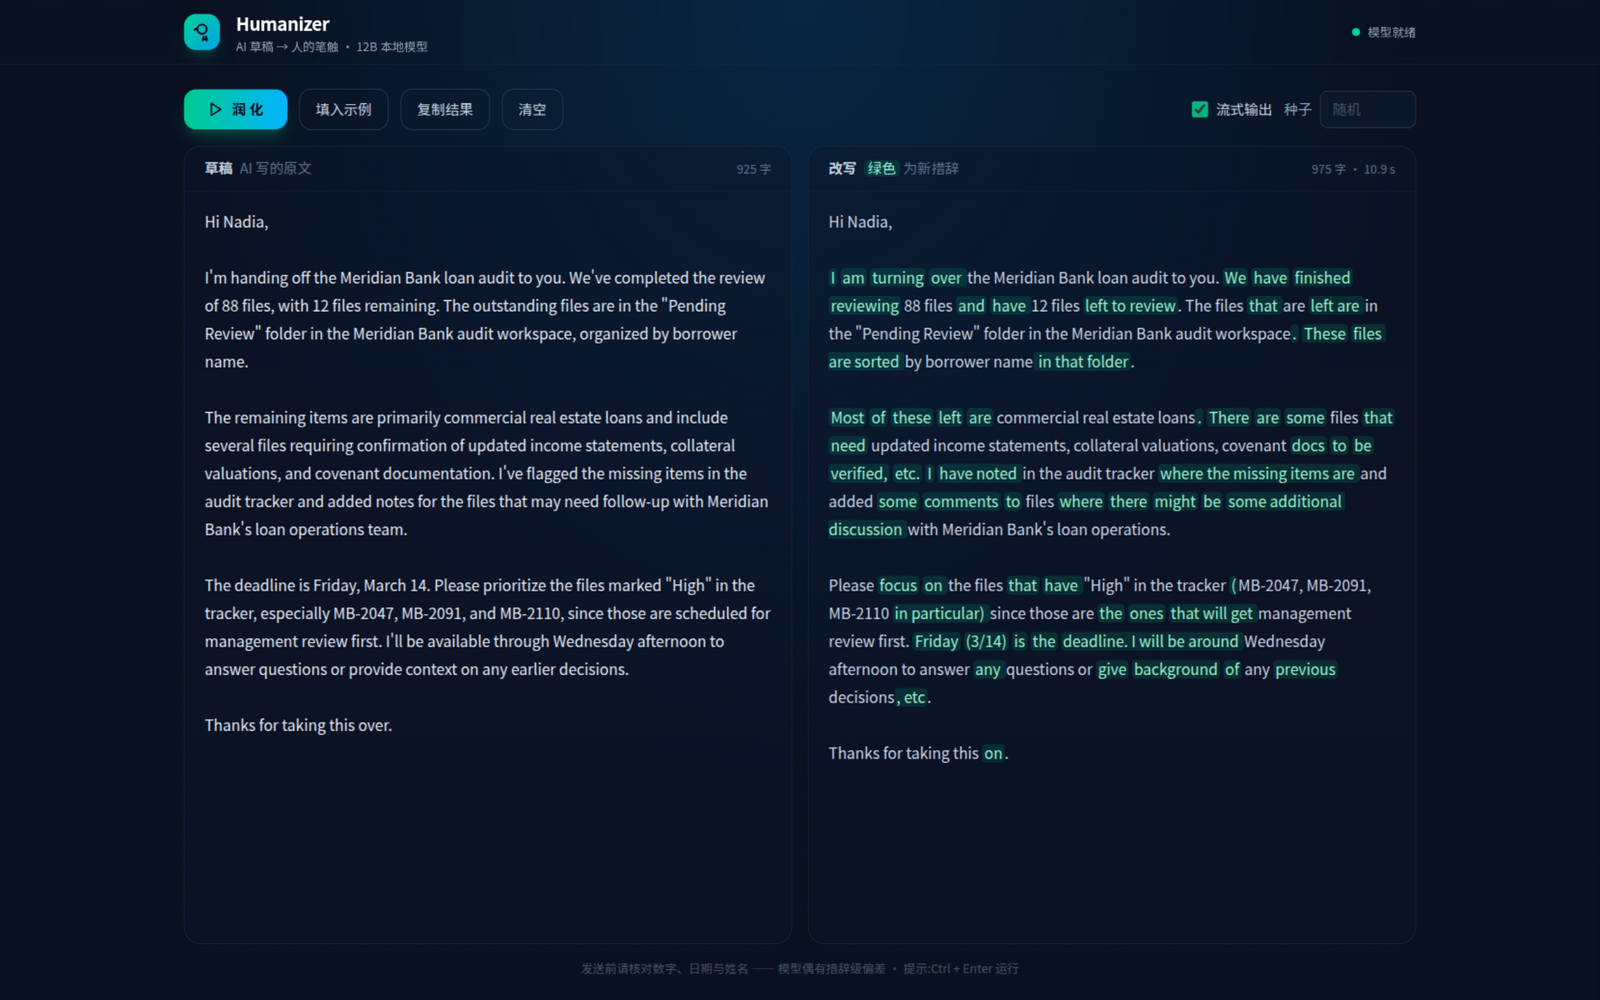
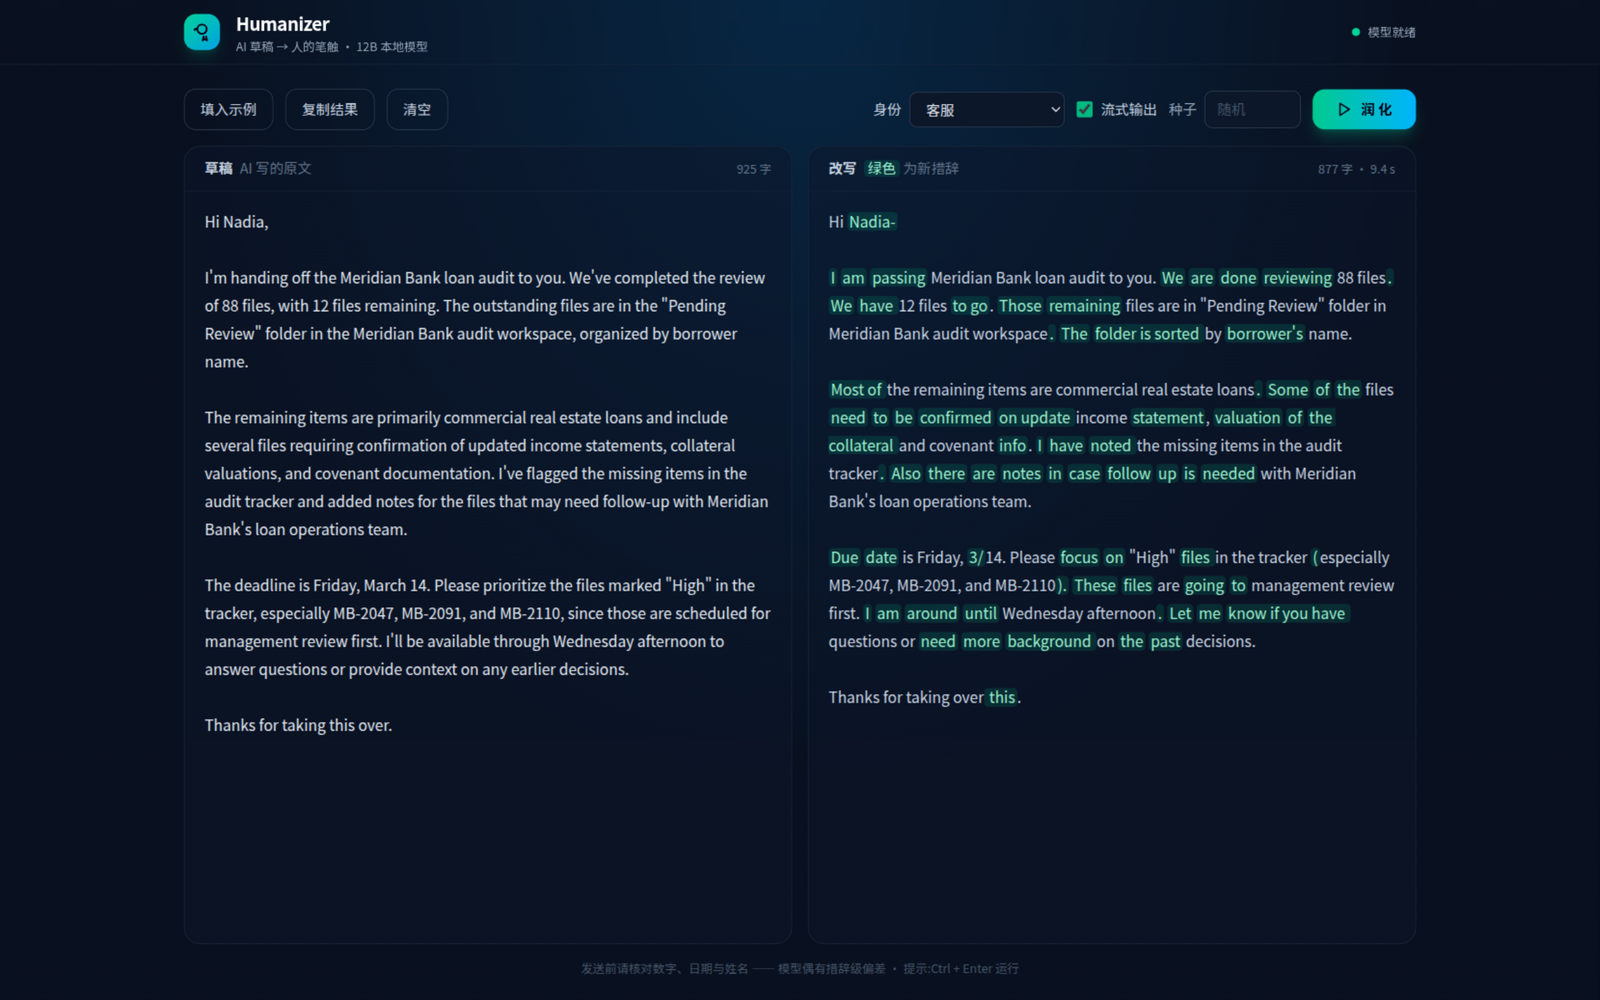
README 截图换成润化完成状态(含新工具条布局与身份选择)

diff --git a/README.md b/README.md
@@ -17,7 +17,7 @@ uv run uvicorn server:app --host 127.0.0.1 --port 8100
 
 ## 网页客户端
 
-![客户端界面:左边草稿,右边改写,新增措辞绿色高亮](static/img/screenshot.png)
+![客户端界面:左边草稿,右边改写完成,新增措辞绿色高亮,身份选为客服](static/img/screenshot.png)
 
 服务启动后直接打开 `http://127.0.0.1:8100/`:左边草稿、右边改写(新增措辞绿色高亮),
 支持**写作身份**(21 个:默认、客服、同事、向上汇报、程序员、HR、知乎博主、机关公文等)、
